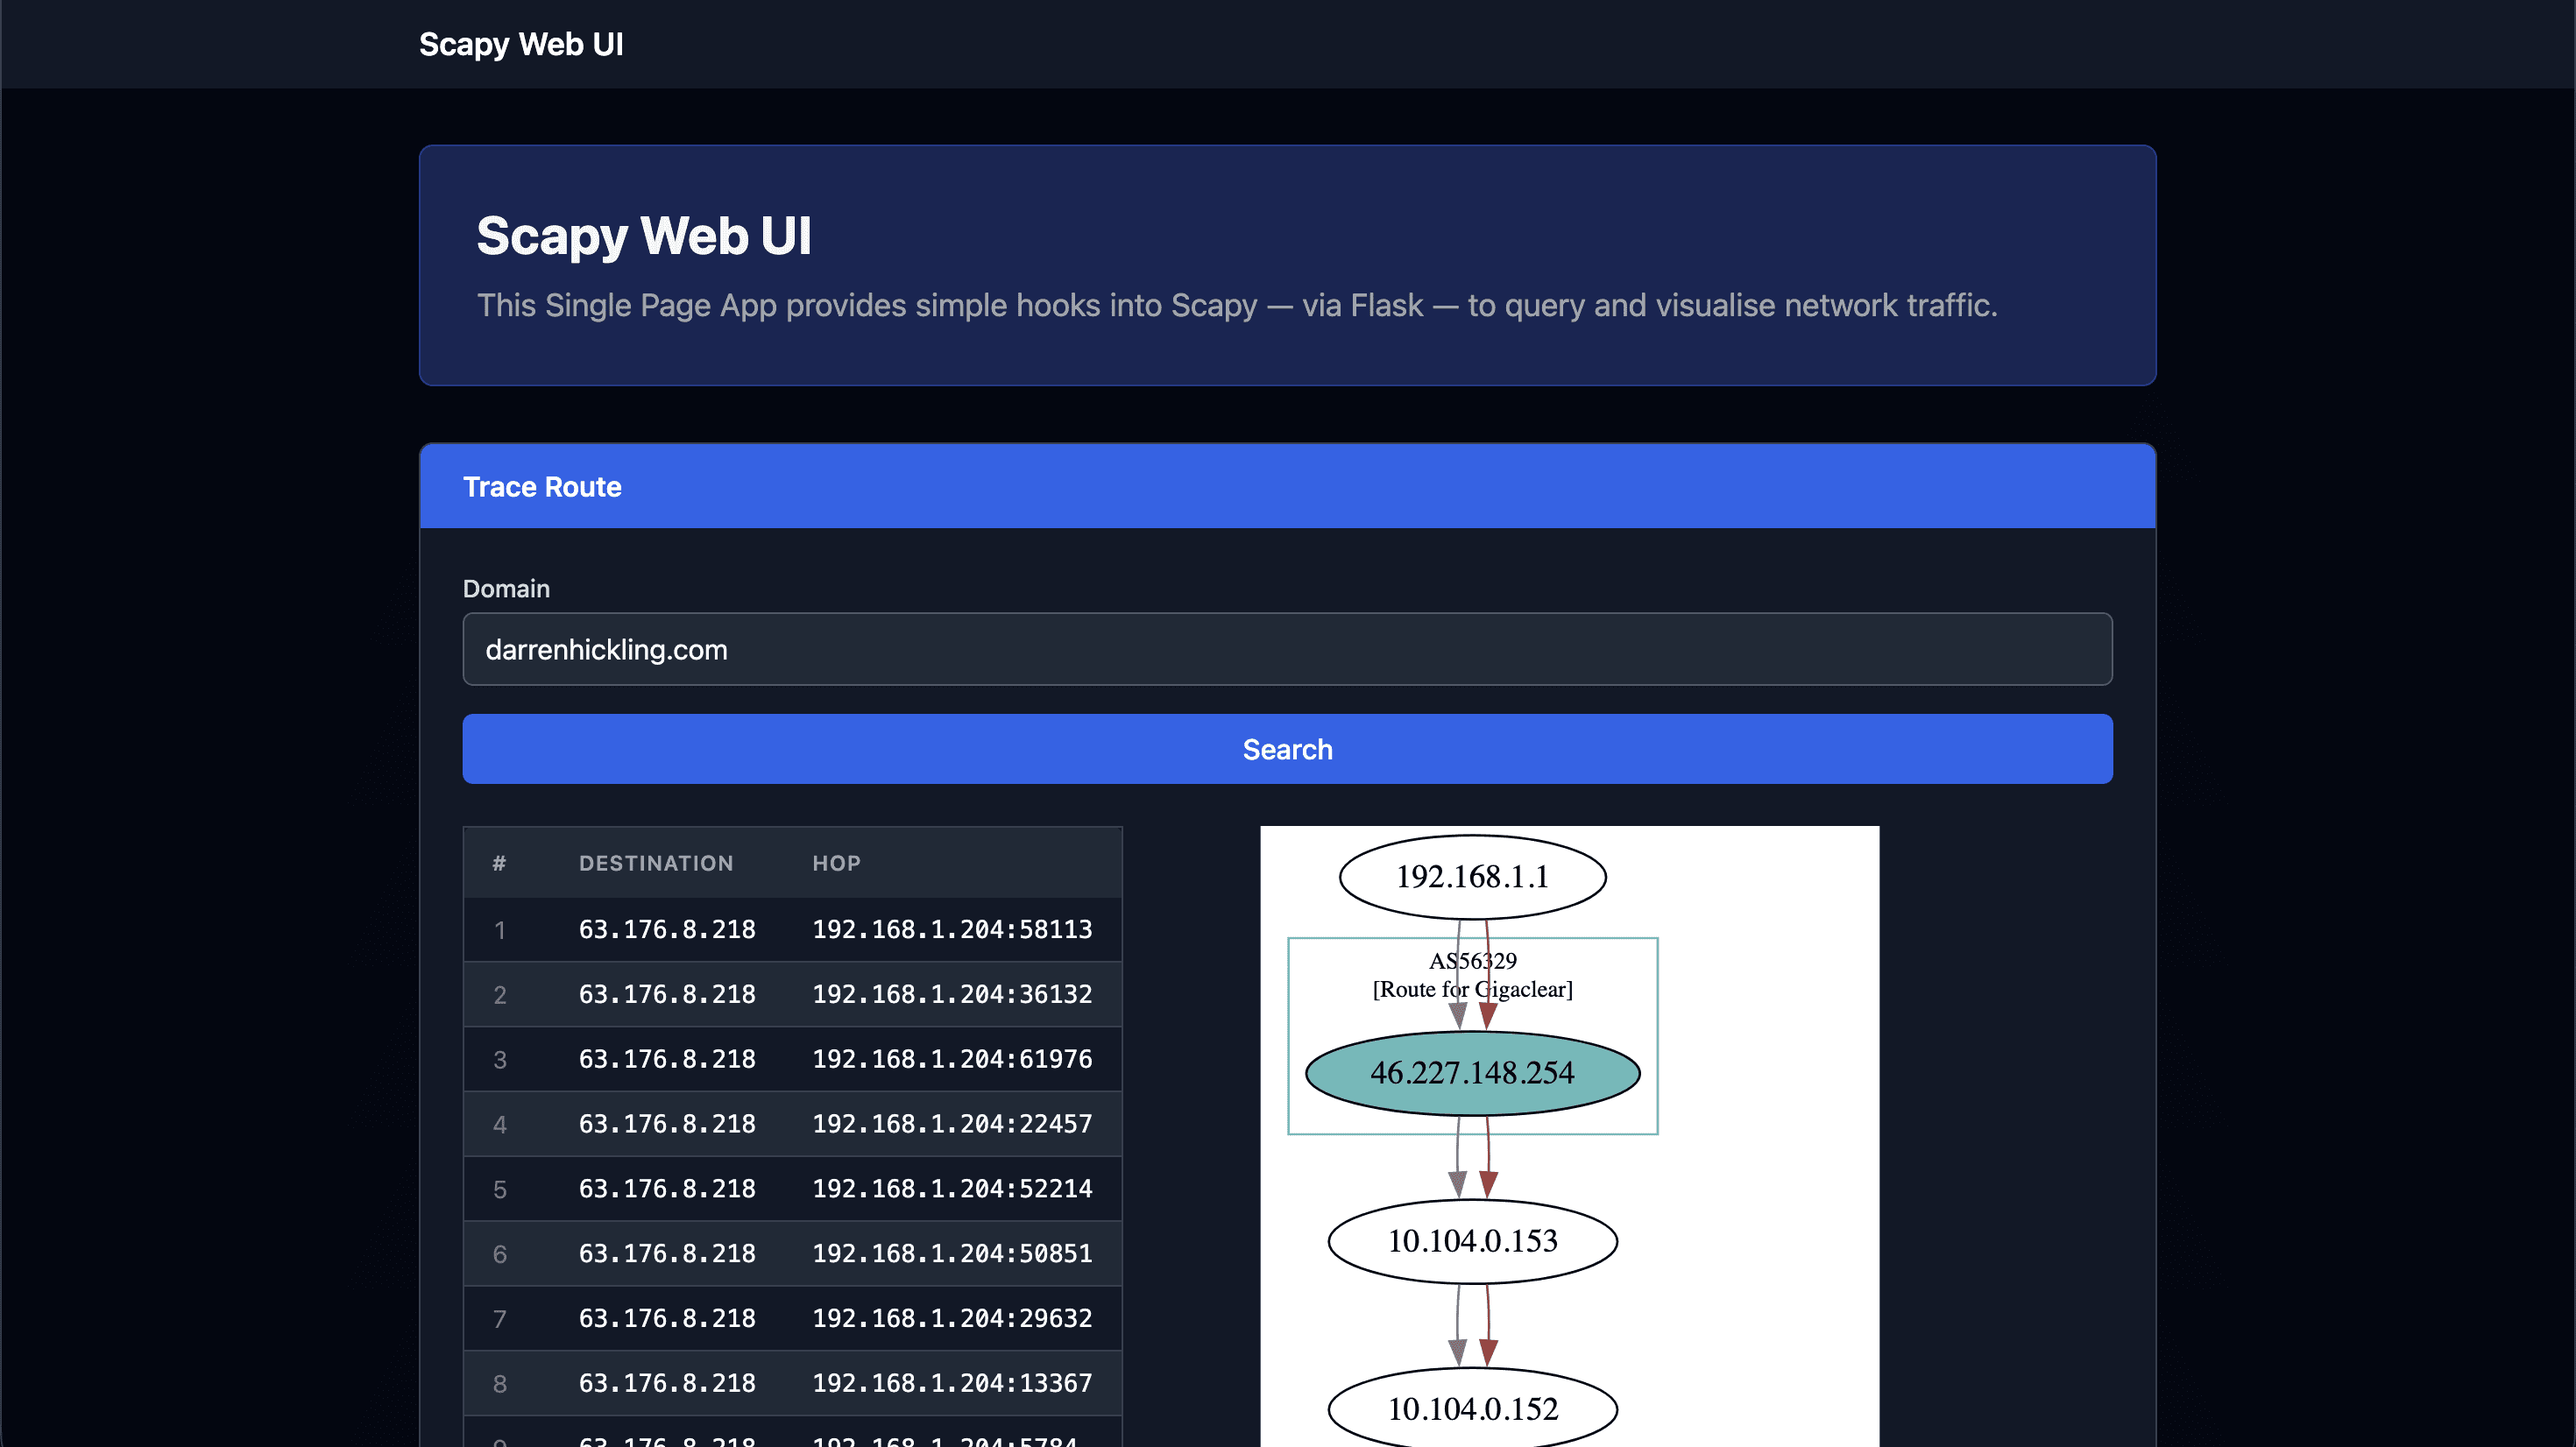
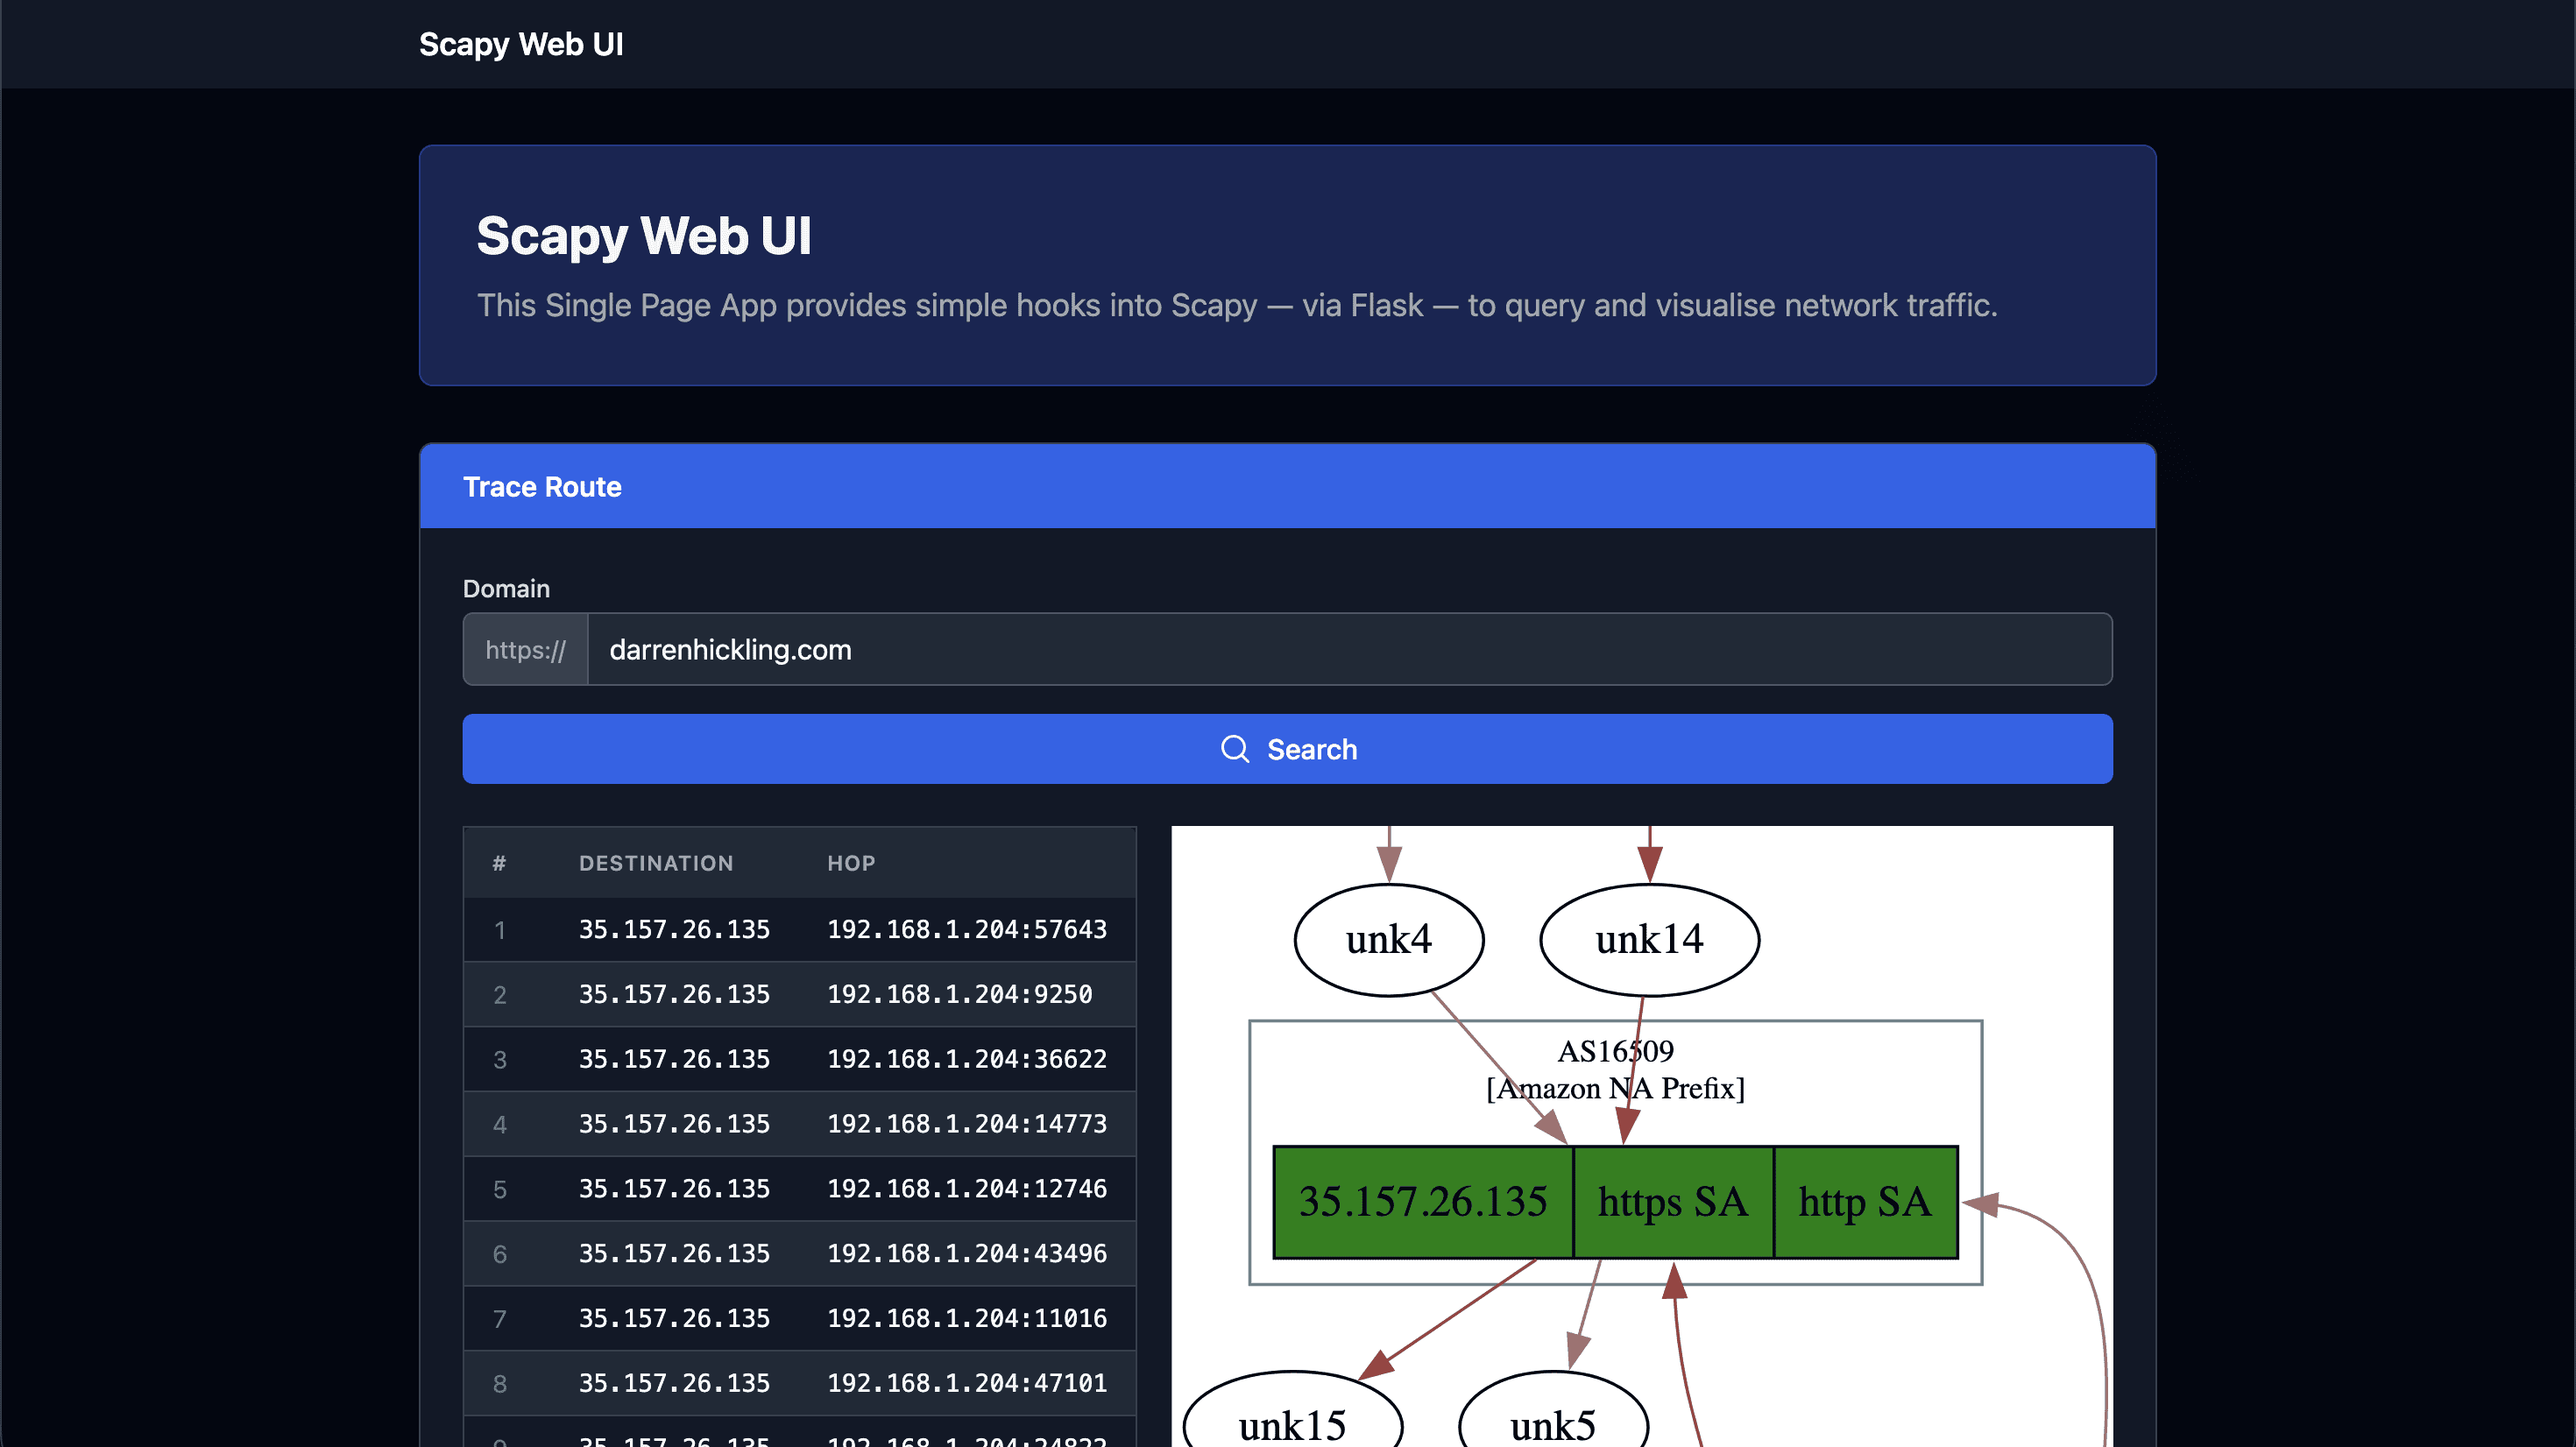
🎨 Improving inputs and error messages

diff --git a/app/static/components/trace-route.js b/app/static/components/trace-route.js
@@ -1,3 +1,5 @@
+const DOMAIN_PATTERN = /^(?!-)([a-zA-Z0-9-]{1,63}(?<!-)\.)+[a-zA-Z]{2,63}$/
+
 export class TraceRoute extends HTMLElement {
     connectedCallback() {
         this.innerHTML = `
@@ -6,25 +8,35 @@ export class TraceRoute extends HTMLElement {
                     <label class="block text-sm font-medium text-gray-700 dark:text-gray-300 mb-1" for="domain">
                         Domain
                     </label>
-                    <input
-                        type="text"
-                        id="domain"
-                        class="w-full px-3 py-2 border border-gray-300 dark:border-gray-600 rounded-md shadow-sm
-                               bg-white dark:bg-gray-800 text-gray-900 dark:text-gray-100
-                               focus:outline-none focus:ring-2 focus:ring-blue-500 focus:border-blue-500"
-                        placeholder="e.g. www.duckduckgo.com"
-                    />
-                    <p class="mt-1 text-sm text-red-600 dark:text-red-400 hidden" data-help></p>
+                    <div class="flex rounded-md shadow-sm">
+                        <span data-addon class="inline-flex items-center rounded-l-md border border-r-0 border-gray-300 dark:border-gray-600
+                                     bg-gray-50 dark:bg-gray-700 px-3 text-gray-500 dark:text-gray-400 text-sm">
+                            https://
+                        </span>
+                        <input
+                            type="text"
+                            id="domain"
+                            class="block w-full min-w-0 rounded-none rounded-r-md border border-gray-300 dark:border-gray-600
+                                   bg-white dark:bg-gray-800 text-gray-900 dark:text-gray-100 px-3 py-2
+                                   focus:outline-none focus:ring-2 focus:ring-inset focus:ring-blue-500"
+                            placeholder="e.g. www.duckduckgo.com"
+                        />
+                    </div>
+                    <p class="mt-2 text-sm text-red-600 dark:text-red-400 hidden" data-help></p>
                 </div>
                 <button
                     id="search"
-                    type="button"
-                    class="w-full px-4 py-2 bg-blue-600 text-white font-medium rounded-md
+                    type="submit"
+                    class="inline-flex items-center gap-2 w-full justify-center px-4 py-2
+                           bg-blue-600 text-white font-medium rounded-md
                            hover:bg-blue-700 focus:outline-none focus:ring-2 focus:ring-blue-500
                            focus:ring-offset-2 dark:focus:ring-offset-gray-900 transition-colors cursor-pointer
                            disabled:bg-blue-400 disabled:cursor-wait"
                 >
-                    Search
+                    <svg class="size-5" viewBox="0 0 20 20" fill="currentColor" aria-hidden="true">
+                        <path fill-rule="evenodd" d="M9 3.5a5.5 5.5 0 1 0 0 11 5.5 5.5 0 0 0 0-11ZM2 9a7 7 0 1 1 12.452 4.391l3.328 3.329a.75.75 0 1 1-1.06 1.06l-3.329-3.328A7 7 0 0 1 2 9Z" clip-rule="evenodd" />
+                    </svg>
+                    <span data-label>Search</span>
                 </button>
             </form>
 
@@ -39,31 +51,68 @@ export class TraceRoute extends HTMLElement {
         `
 
         const domain = this.querySelector("#domain")
+        const addon = this.querySelector("[data-addon]")
         const help = this.querySelector("[data-help]")
         const table = this.querySelector("route-table")
         const graph = this.querySelector("route-graph")
         const form = this.querySelector("form")
         const search = this.querySelector("#search")
+        const searchLabel = this.querySelector("[data-label]")
 
-        form.addEventListener("submit", (e) => e.preventDefault())
+        const showError = (message) => {
+            domain.classList.add(
+                "border-red-500",
+                "text-red-900",
+                "dark:text-red-400",
+                "focus:ring-red-500"
+            )
+            addon.classList.add(
+                "border-red-500",
+                "text-red-500",
+                "dark:text-red-400"
+            )
+            help.textContent = message
+            help.classList.remove("hidden")
+        }
 
-        search.addEventListener("click", async () => {
-            // Reset state.
-            domain.classList.remove("border-green-500", "border-red-500")
+        const resetState = () => {
+            domain.classList.remove(
+                "border-green-500",
+                "border-red-500",
+                "text-red-900",
+                "dark:text-red-400",
+                "focus:ring-red-500"
+            )
+            addon.classList.remove(
+                "border-red-500",
+                "text-red-500",
+                "dark:text-red-400"
+            )
             help.classList.add("hidden")
             help.textContent = ""
+        }
+
+        form.addEventListener("submit", async (e) => {
+            e.preventDefault()
+            resetState()
+
+            if (!DOMAIN_PATTERN.test(domain.value)) {
+                showError("Please enter a valid domain name.")
+                return
+            }
+
             table.showLoading()
             graph.clear()
 
             // Disable button while in-flight.
             search.disabled = true
-            search.textContent = "Searching\u2026"
+            searchLabel.textContent = "Searching\u2026"
 
             table.startTimer()
 
             try {
                 const response = await fetch(
-                    `/api/traceroute/${encodeURI(domain.value)}`
+                    `/api/traceroute/${encodeURIComponent(domain.value)}`
                 )
 
                 if (!response.ok) throw new Error("Request failed")
@@ -74,13 +123,11 @@ export class TraceRoute extends HTMLElement {
                 table.setRoutes(routes)
                 graph.renderDot(dot)
             } catch {
-                domain.classList.add("border-red-500")
+                showError("Oops, there was a problem with that domain.")
                 table.clear()
-                help.textContent = "Oops, there was a problem with that domain."
-                help.classList.remove("hidden")
             } finally {
                 search.disabled = false
-                search.textContent = "Search"
+                searchLabel.textContent = "Search"
             }
         })
     }

diff --git a/app/static/components/route-graph.js b/app/static/components/route-graph.js
@@ -10,7 +10,6 @@ export class RouteGraph extends HTMLElement {
 
     renderDot(dot) {
         try {
-            console.log(dot)
             d3.select(this)
                 .graphviz()
                 .width(this.clientWidth)
